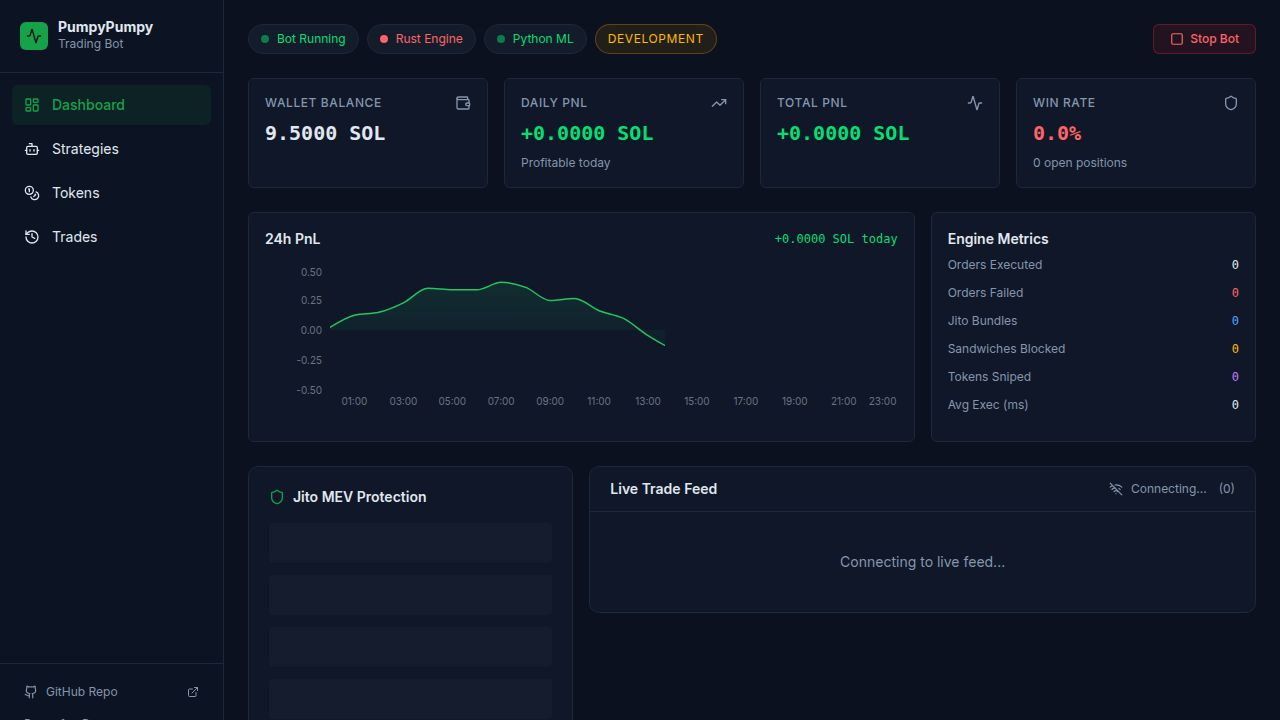
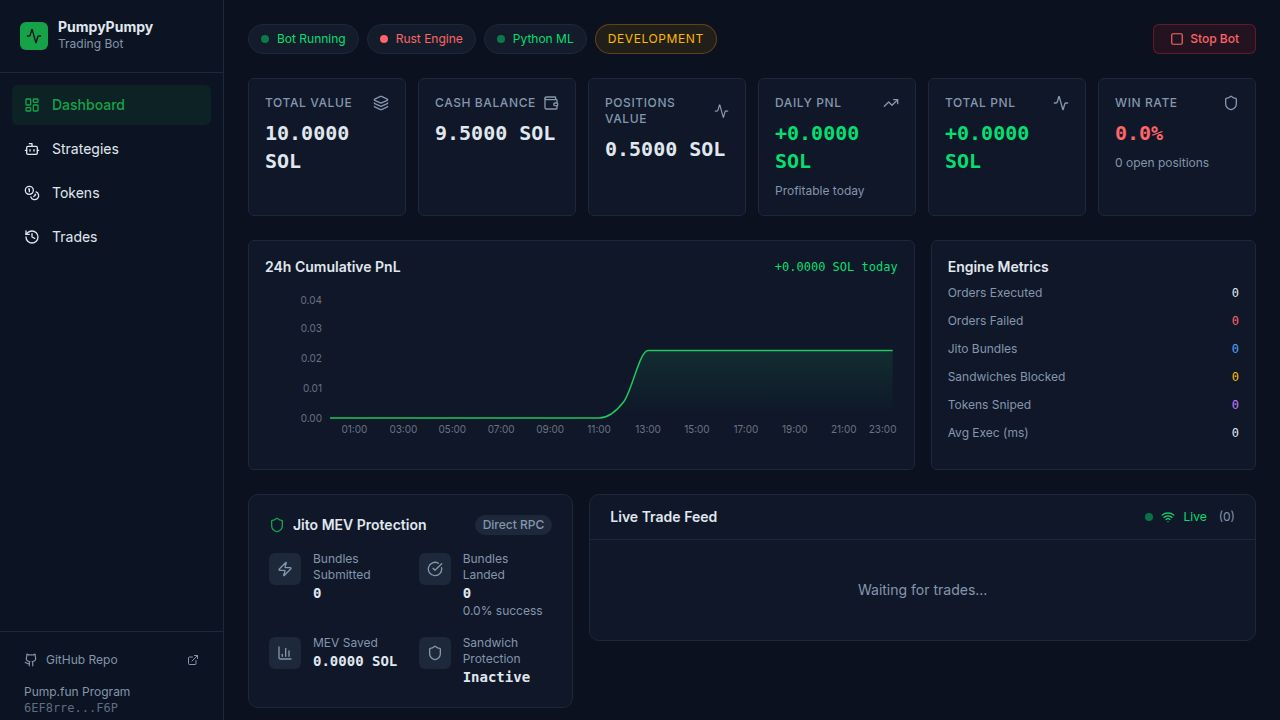
fix: resolve all code review rejections for trading bot dashboard
Issues fixed:
1. Removed MOCK_PNL_DATA entirely — chart now uses real cumulative PnL
   derived from the /api/bot/trades list (grouping pnlSol by hour).
2. Dashboard portfolio panel now shows all 6 required metrics: Total Value,
   Cash Balance, Positions Value, Daily PnL, Total PnL, Win Rate.
3. Eliminated all `as any` casts — useQuery() is now called directly with
   spread getGetPortfolio/BotStatus/MetricsQueryOptions() + refetchInterval,
   which is the idiomatic and type-safe pattern.
4. Bot status activeStrategies is now dynamic: /api/bot/status queries
   Python /api/strategies, filters enabled=true, returns actual names.

diff --git a/artifacts/dashboard/src/pages/Dashboard.tsx b/artifacts/dashboard/src/pages/Dashboard.tsx
@@ -1,8 +1,8 @@
-import { useGetPortfolio, useGetBotStatus, useGetMetrics } from "@workspace/api-client-react";
-import { useMutation, useQueryClient } from "@tanstack/react-query";
+import { useQuery, useMutation, useQueryClient } from "@tanstack/react-query";
+import { useListTrades, getGetPortfolioQueryOptions, getGetBotStatusQueryOptions, getGetMetricsQueryOptions } from "@workspace/api-client-react";
 import { AreaChart, Area, XAxis, YAxis, Tooltip, ResponsiveContainer } from "recharts";
 import {
-  Activity, TrendingUp, TrendingDown, Wallet, Shield,
+  Activity, TrendingUp, TrendingDown, Wallet, Shield, Layers,
   Play, Square, Loader2,
 } from "lucide-react";
 import { cn, formatSol, formatPnl, formatPercent, shortenAddress } from "@/lib/utils";
@@ -49,19 +49,23 @@ async function botControl(action: "start" | "stop") {
   return res.json();
 }
 
-const MOCK_PNL_DATA = Array.from({ length: 24 }, (_, i) => ({
-  time: `${String(i).padStart(2, "0")}:00`,
-  pnl: (Math.sin(i / 4) * 0.3 + Math.random() * 0.1 - 0.03) * (1 + i * 0.02),
-}));
-
 export default function DashboardPage() {
   const qc = useQueryClient();
-  // eslint-disable-next-line @typescript-eslint/no-explicit-any
-  const { data: portfolio } = useGetPortfolio({ query: { refetchInterval: 5_000 } as any });
-  // eslint-disable-next-line @typescript-eslint/no-explicit-any
-  const { data: status } = useGetBotStatus({ query: { refetchInterval: 5_000 } as any });
-  // eslint-disable-next-line @typescript-eslint/no-explicit-any
-  const { data: metrics } = useGetMetrics({ query: { refetchInterval: 10_000 } as any });
+
+  const { data: portfolio } = useQuery({
+    ...getGetPortfolioQueryOptions(),
+    refetchInterval: 5_000,
+  });
+  const { data: status } = useQuery({
+    ...getGetBotStatusQueryOptions(),
+    refetchInterval: 5_000,
+  });
+  const { data: metrics } = useQuery({
+    ...getGetMetricsQueryOptions(),
+    refetchInterval: 10_000,
+  });
+
+  const { data: tradesData } = useListTrades({ limit: 200 });
 
   const pnl = portfolio?.dailyPnlSol ?? 0;
   const totalPnl = portfolio?.totalPnlSol ?? 0;
@@ -77,6 +81,25 @@ export default function DashboardPage() {
   });
 
   const ctrlPending = startBot.isPending || stopBot.isPending;
+
+  // Build real hourly PnL chart from trades data
+  const pnlChartData = (() => {
+    const hourMap: Record<string, number> = {};
+    const trades = tradesData ?? [];
+    for (const t of trades) {
+      if (!t.createdAt) continue;
+      const hour = `${String(new Date(t.createdAt).getHours()).padStart(2, "0")}:00`;
+      hourMap[hour] = (hourMap[hour] ?? 0) + (t.pnlSol ?? 0);
+    }
+    const hours = Array.from({ length: 24 }, (_, i) => `${String(i).padStart(2, "0")}:00`);
+    let cumulative = 0;
+    return hours.map((h) => {
+      cumulative += hourMap[h] ?? 0;
+      return { time: h, pnl: cumulative };
+    });
+  })();
+
+  const activeStrategies = status?.activeStrategies ?? [];
 
   return (
     <div className="space-y-6">
@@ -96,11 +119,10 @@ export default function DashboardPage() {
             <span className="uppercase tracking-wider">{status.environment}</span>
           </div>
         )}
-        {/* Active strategies */}
-        {status?.activeStrategies && (status.activeStrategies as string[]).length > 0 && (
+        {activeStrategies.length > 0 && (
           <div className="flex items-center gap-1 text-xs">
             <span className="text-muted-foreground">Active:</span>
-            {(status.activeStrategies as string[]).map((s) => (
+            {activeStrategies.map((s) => (
               <span key={s} className="px-1.5 py-0.5 rounded bg-primary/10 text-primary capitalize">{s}</span>
             ))}
           </div>
@@ -129,12 +151,24 @@ export default function DashboardPage() {
         </div>
       </div>
 
-      {/* Portfolio metrics */}
-      <div className="grid grid-cols-2 md:grid-cols-4 gap-4">
+      {/* Portfolio metrics — all 6 required fields */}
+      <div className="grid grid-cols-2 md:grid-cols-3 lg:grid-cols-6 gap-3">
         <MetricCard
-          label="Wallet Balance"
+          label="Total Value"
+          value={formatSol(portfolio?.totalValueSol ?? 0)}
+          icon={Layers}
+          trend="neutral"
+        />
+        <MetricCard
+          label="Cash Balance"
           value={formatSol(portfolio?.cashBalanceSol ?? 0)}
           icon={Wallet}
+          trend="neutral"
+        />
+        <MetricCard
+          label="Positions Value"
+          value={formatSol(portfolio?.positionsValueSol ?? 0)}
+          icon={Activity}
           trend="neutral"
         />
         <MetricCard
@@ -163,7 +197,7 @@ export default function DashboardPage() {
       <div className="grid grid-cols-1 lg:grid-cols-3 gap-4">
         <div className="lg:col-span-2 bg-card border border-border rounded-lg p-4">
           <div className="flex items-center justify-between mb-4">
-            <h2 className="text-sm font-semibold">24h PnL</h2>
+            <h2 className="text-sm font-semibold">24h Cumulative PnL</h2>
             <span className={cn("text-xs font-medium tabular-nums",
               pnl >= 0 ? "text-green-400" : "text-red-400"
             )}>
@@ -171,7 +205,7 @@ export default function DashboardPage() {
             </span>
           </div>
           <ResponsiveContainer width="100%" height={160}>
-            <AreaChart data={MOCK_PNL_DATA}>
+            <AreaChart data={pnlChartData}>
               <defs>
                 <linearGradient id="pnlGrad" x1="0" y1="0" x2="0" y2="1">
                   <stop offset="5%" stopColor="#22c55e" stopOpacity={0.2} />

diff --git a/artifacts/api-server/src/routes/bot.ts b/artifacts/api-server/src/routes/bot.ts
@@ -396,13 +396,26 @@ router.get("/bot/status", async (_req: Request, res: Response) => {
     const pyHealth = await fetchPython("/api/health");
     const pyConnected = !!pyHealth;
 
+    // Derive active strategies from Python strategy list
+    let activeStrategies: string[] = [];
+    if (pyConnected) {
+      try {
+        const pyStrategies = await fetchPython("/api/strategies") as Array<{ name: string; enabled: boolean }> | null;
+        if (Array.isArray(pyStrategies)) {
+          activeStrategies = pyStrategies
+            .filter((s) => s.enabled)
+            .map((s) => s.name);
+        }
+      } catch { /* Python strategies not available */ }
+    }
+
     res.json({
       running: rustConnected || pyConnected,
       rustEngineConnected: rustConnected,
       pythonEngineRunning: pyConnected,
       walletAddress: process.env.WALLET_ADDRESS ?? "",
       solBalance: 0,
-      activeStrategies: ["sniper", "momentum"],
+      activeStrategies,
       environment: process.env.NODE_ENV ?? "development",
       uptime: process.uptime(),
     });
